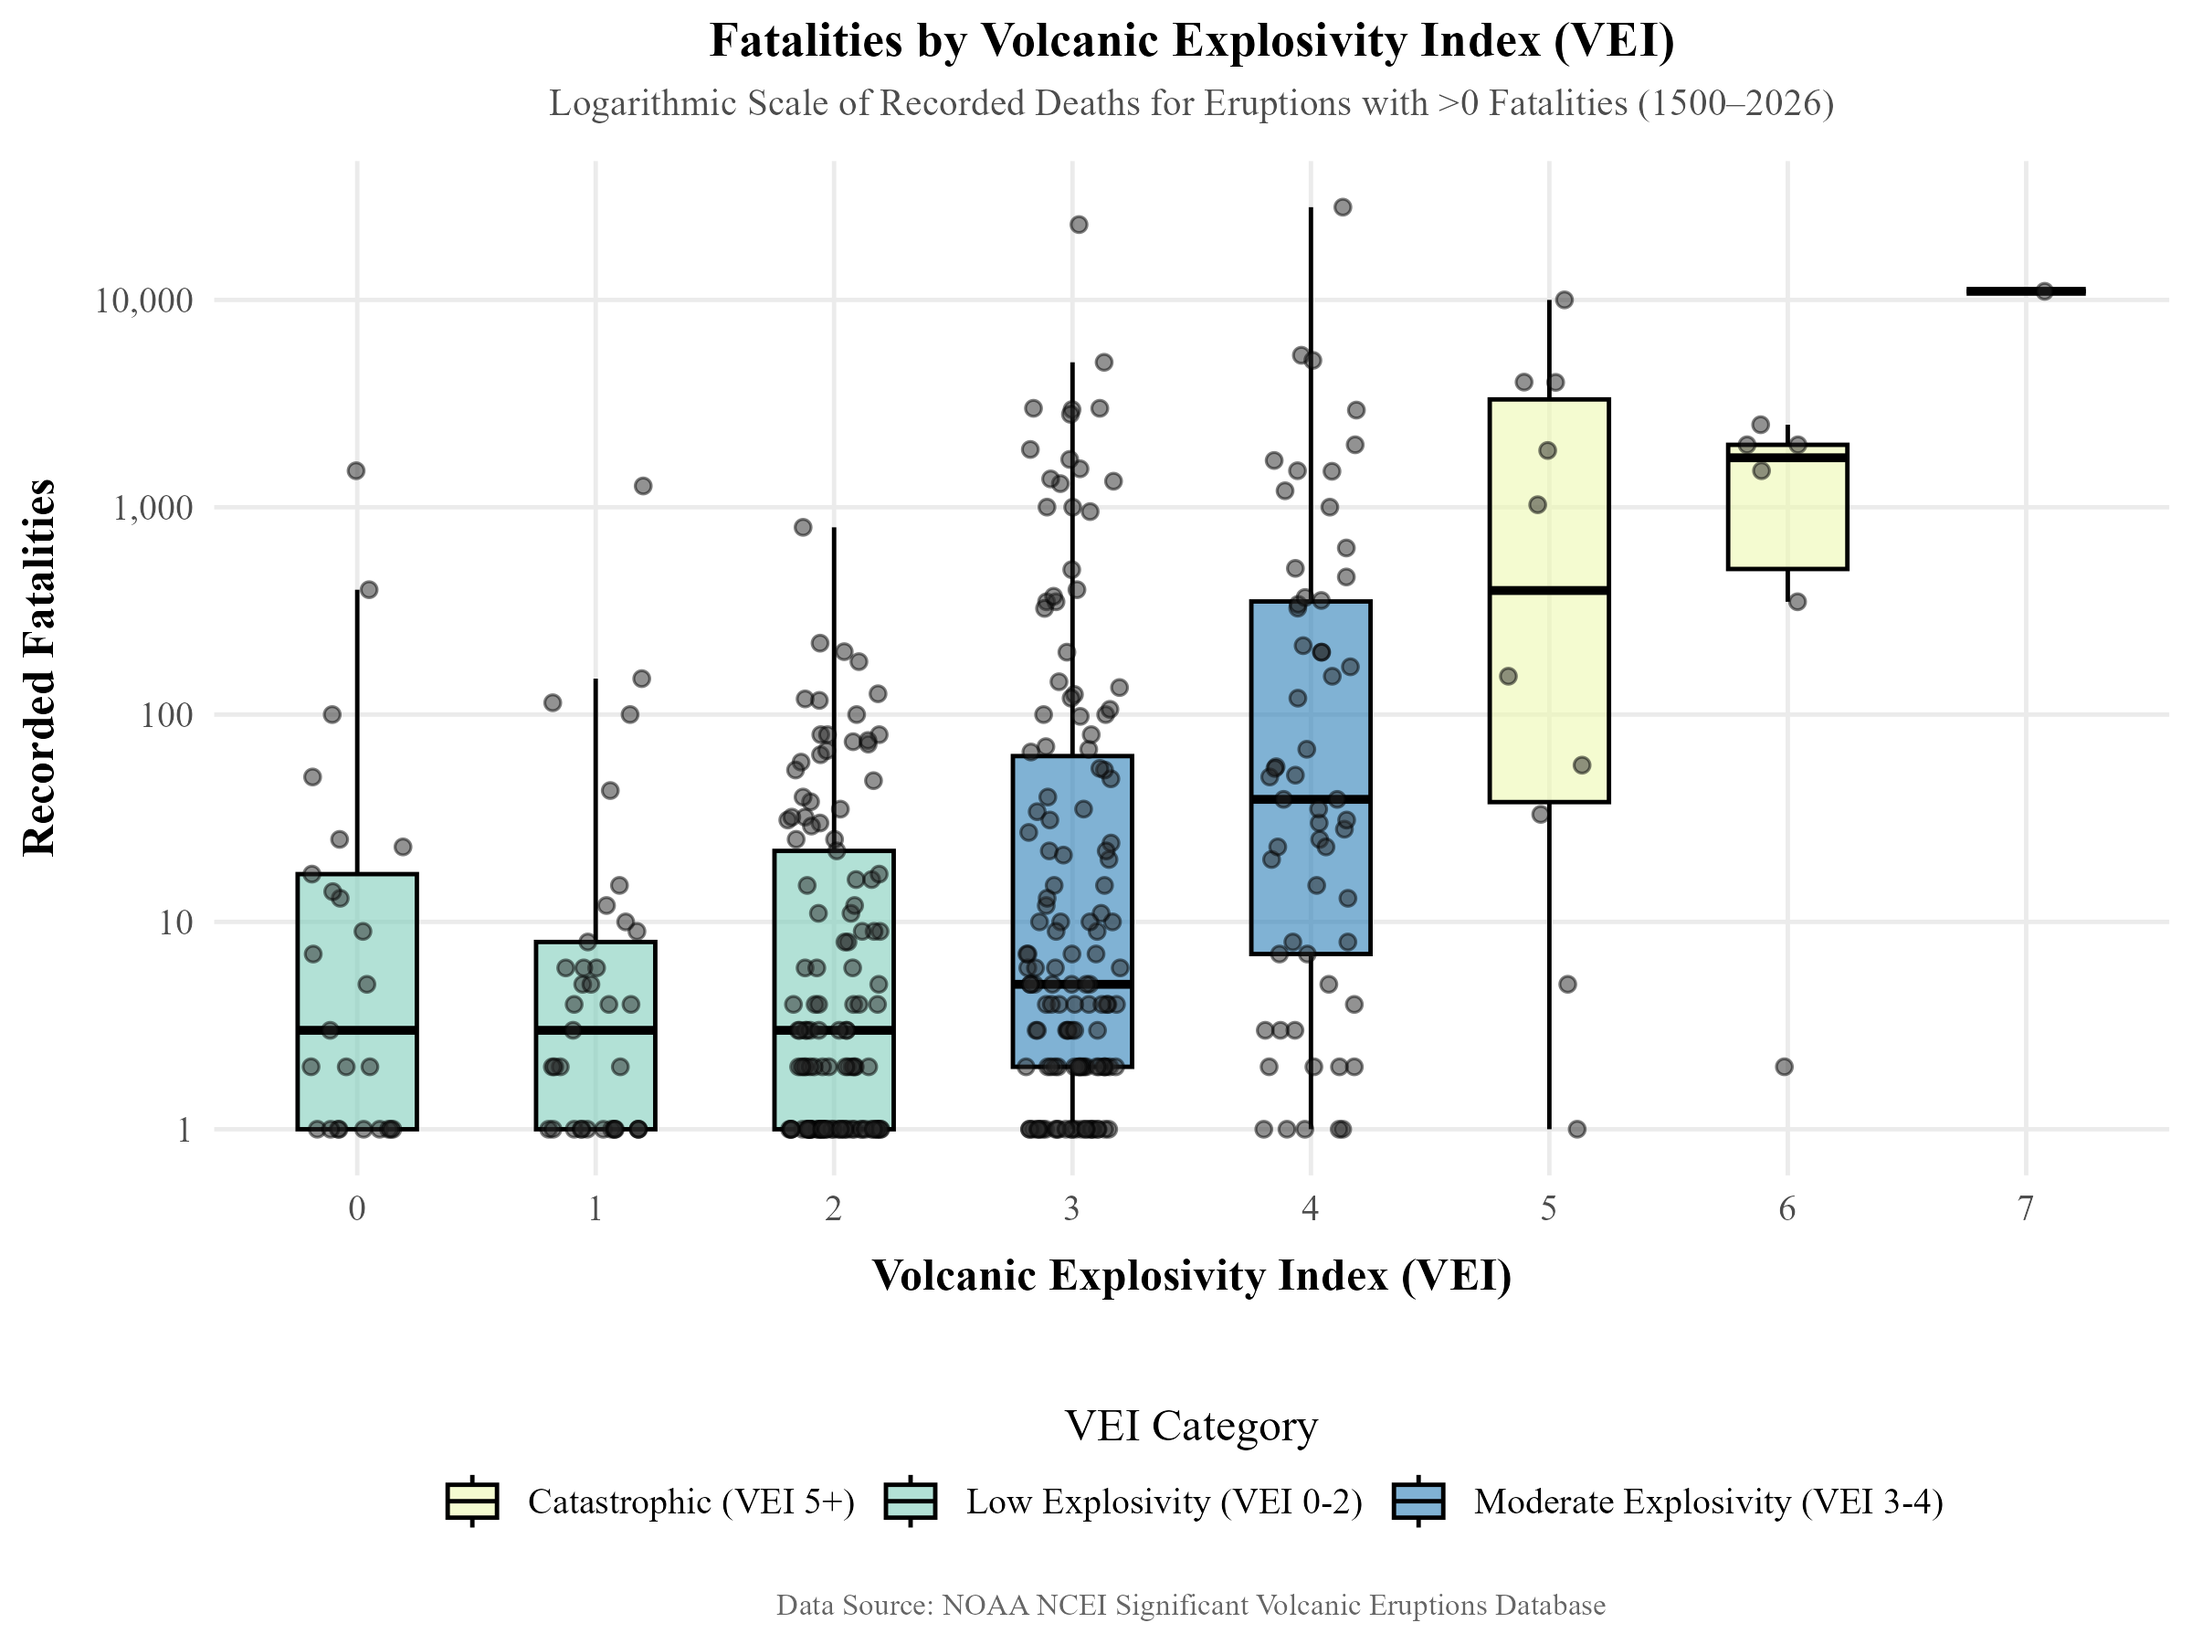
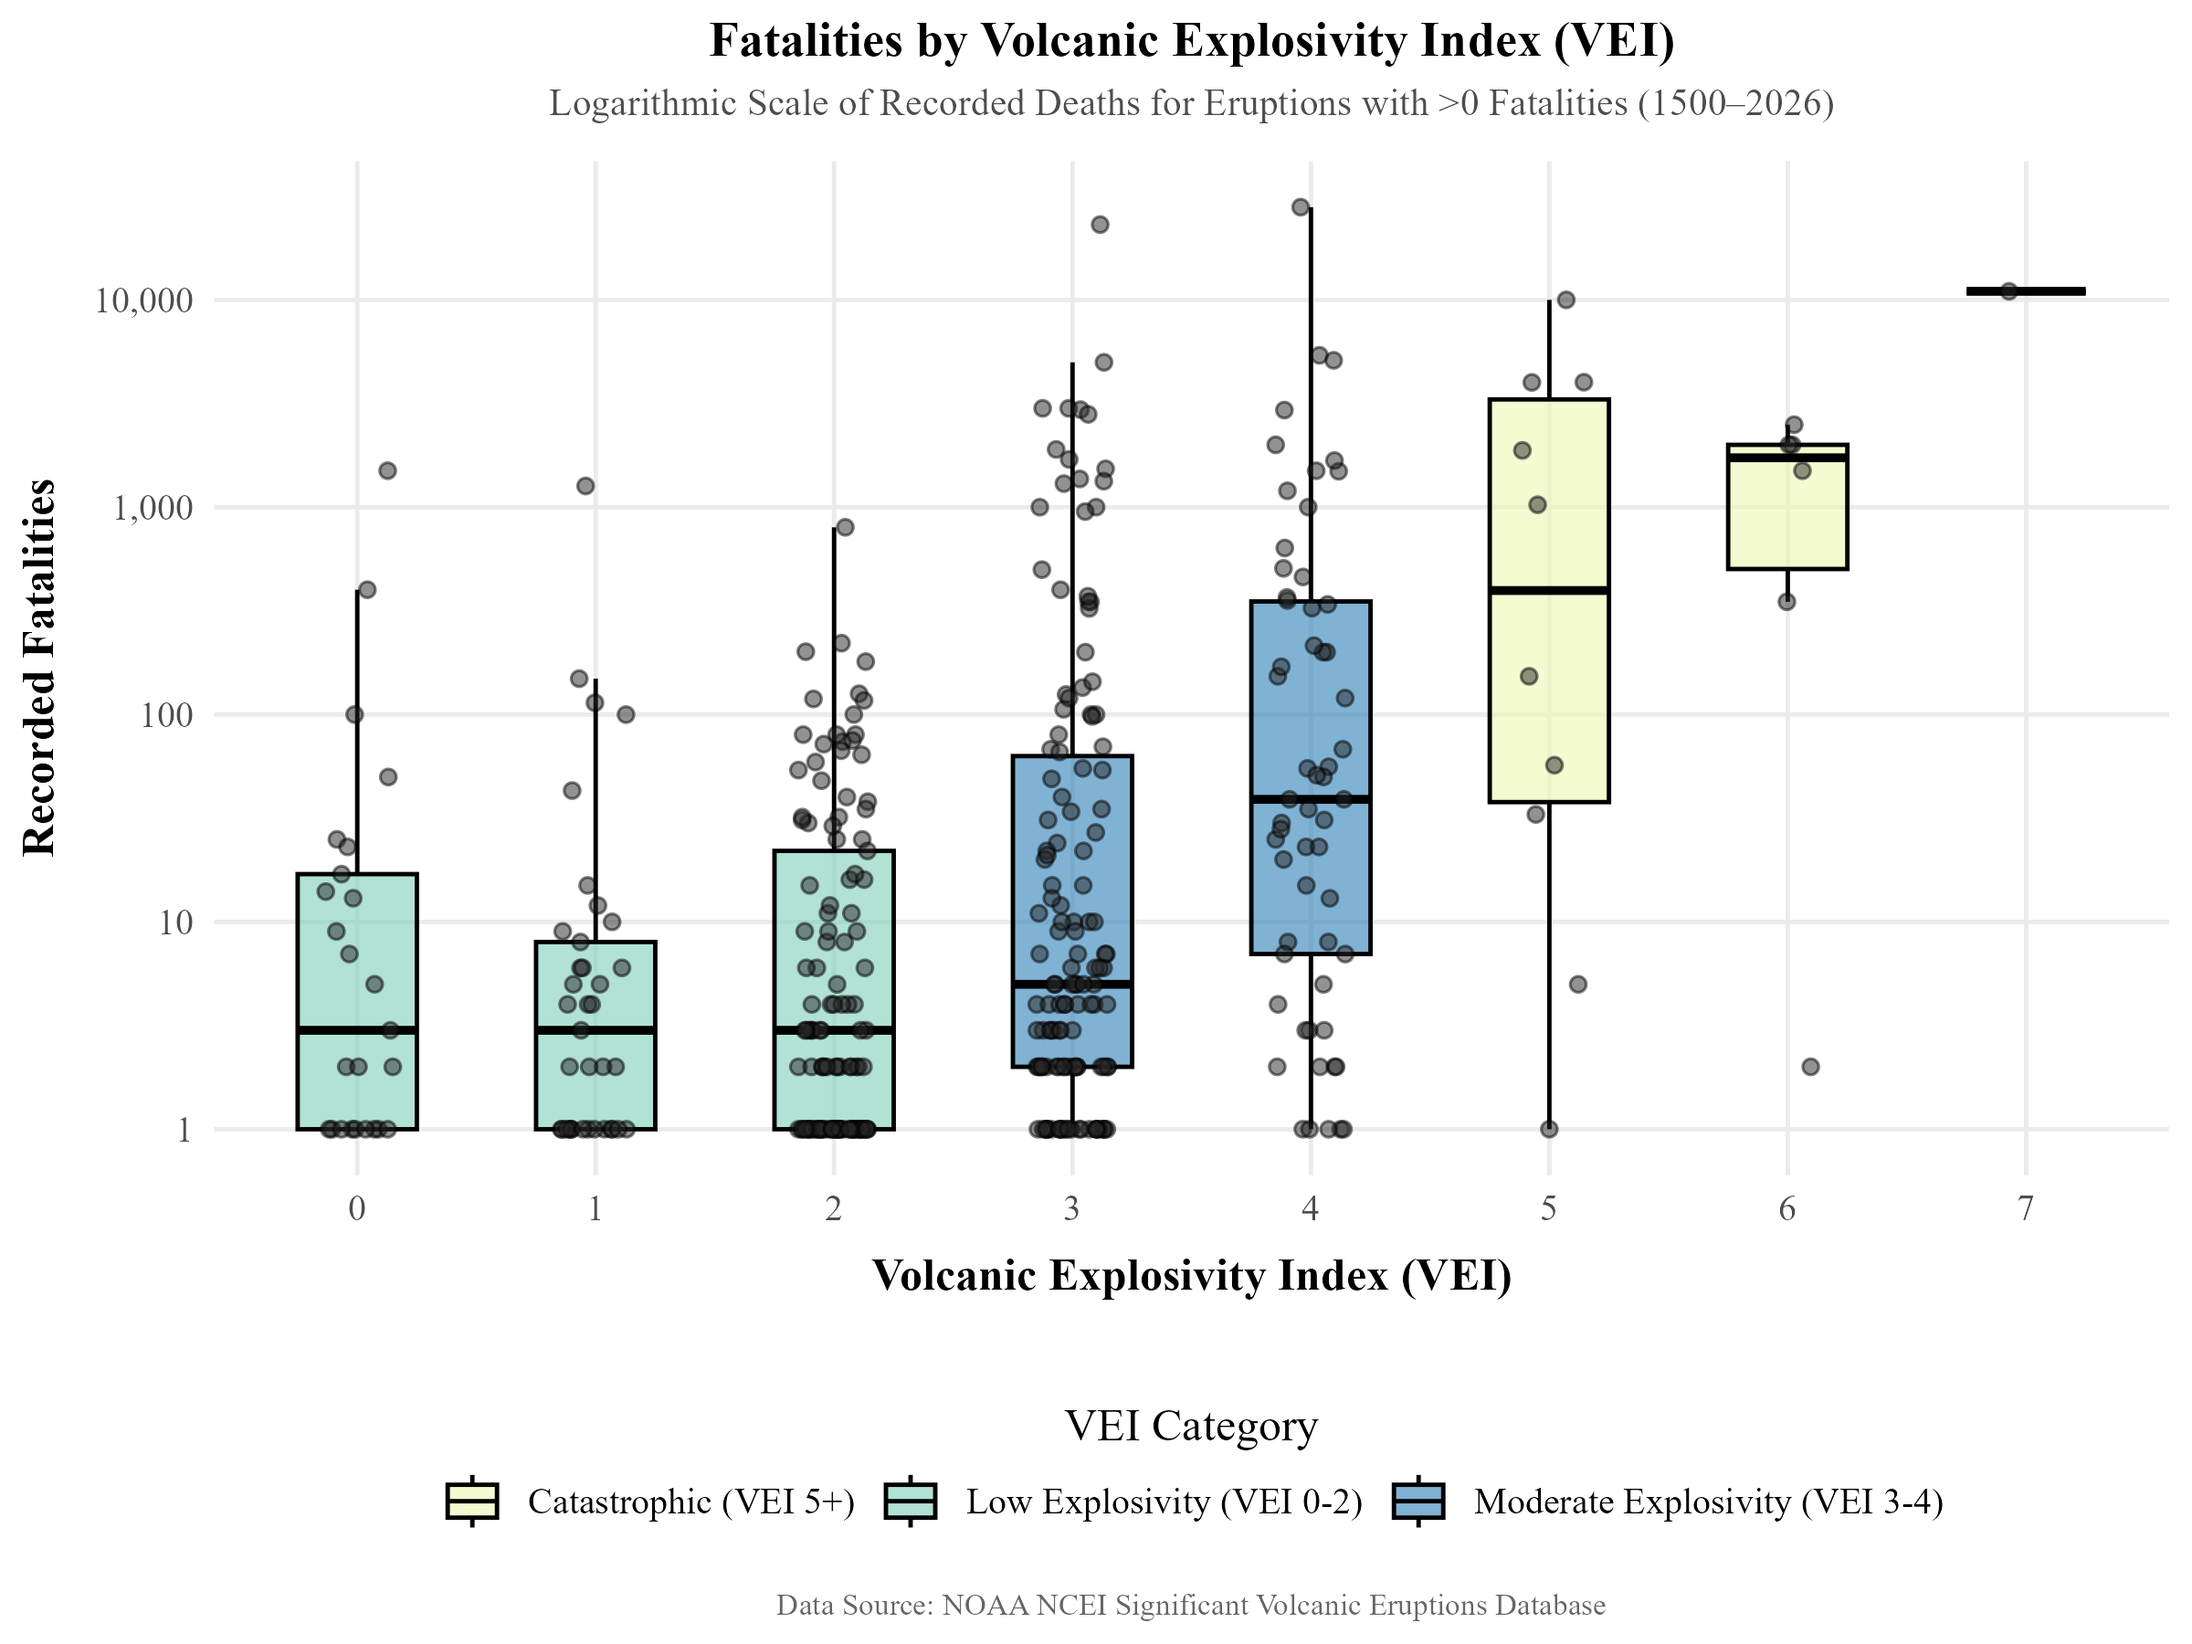
Updated README code to reflect correct file paths and file names in repository tree diagram

diff --git a/README.md b/README.md
@@ -32,15 +32,40 @@ and high-impact spatial eruption distributions across the world.
 
 **Repository Structure**
 
-```r
+**Welcome to my portfolio!**
+
+Analyzing Global Volcanic Hazards Data (1500–2026)
+
+**Author:** Nayonika Choudhury  
+**Course:** EVR 628 Intro to Data Mgmt. & Visualization for Environmental Scientists  
+**Repository:** `my_portfolio`  
+
+---
+
+My project examines global historical volcanic hazards (1500–2026) to analyze the relationships between Volcanic Explosivity Index (VEI), volcano morphology, and human fatalities. It is important to study and establish these patterns in order to better manage populations living in active volcano zones. Using cleaned eruption data from NOAA NCEI Significant Volcanic Eruptions Database, this workflow generates plots & visuals exploring extent of fatality across the different explosivity categories, cumulative mortality by volcano type, and high-impact spatial eruption distributions across the world. 
+
+---
+
+**Data Source**
+
+- **Dataset Name:** NOAA NCEI Significant Volcanic Eruptions Database
+- **Raw File:** `data/raw/volcano.tsv`
+- **Source URL:** https://www.ncei.noaa.gov/products/natural-hazards/tsunamis-earthquakes-volcanoes/volcanoes
+
+---
+
+**Repository Structure**
+
+```
 
 my_portfolio/
 ├── data/
 │   ├── raw/
-│   │   └── volcanoes.tsv                 
-│   ├── processed/
-│   │   └── clean_volcanoes.rds                 
-│   └── output/
+│   │   └── volcano.tsv                 
+│   └── processed/
+│       └── clean_volcanoes.rds                 
+├── results/
+│   └── img/
 │       ├── plot1_vei_vs_fatalities.png
 │       ├── plot2_volcano_type_deaths.png
 │       └── plot3_spatial_impact_map.png        
@@ -48,8 +73,8 @@ my_portfolio/
 │   ├── 01_processing/
 │   │   └── data_processing.R                   
 │   └── 03_content/
-│       └── data_visualization.R                
+│       └── exploratory_data_visualization.R                
 ├── my_portfolio.Rproj                          
-└── README.md               
+└── README.md
 
 ```
